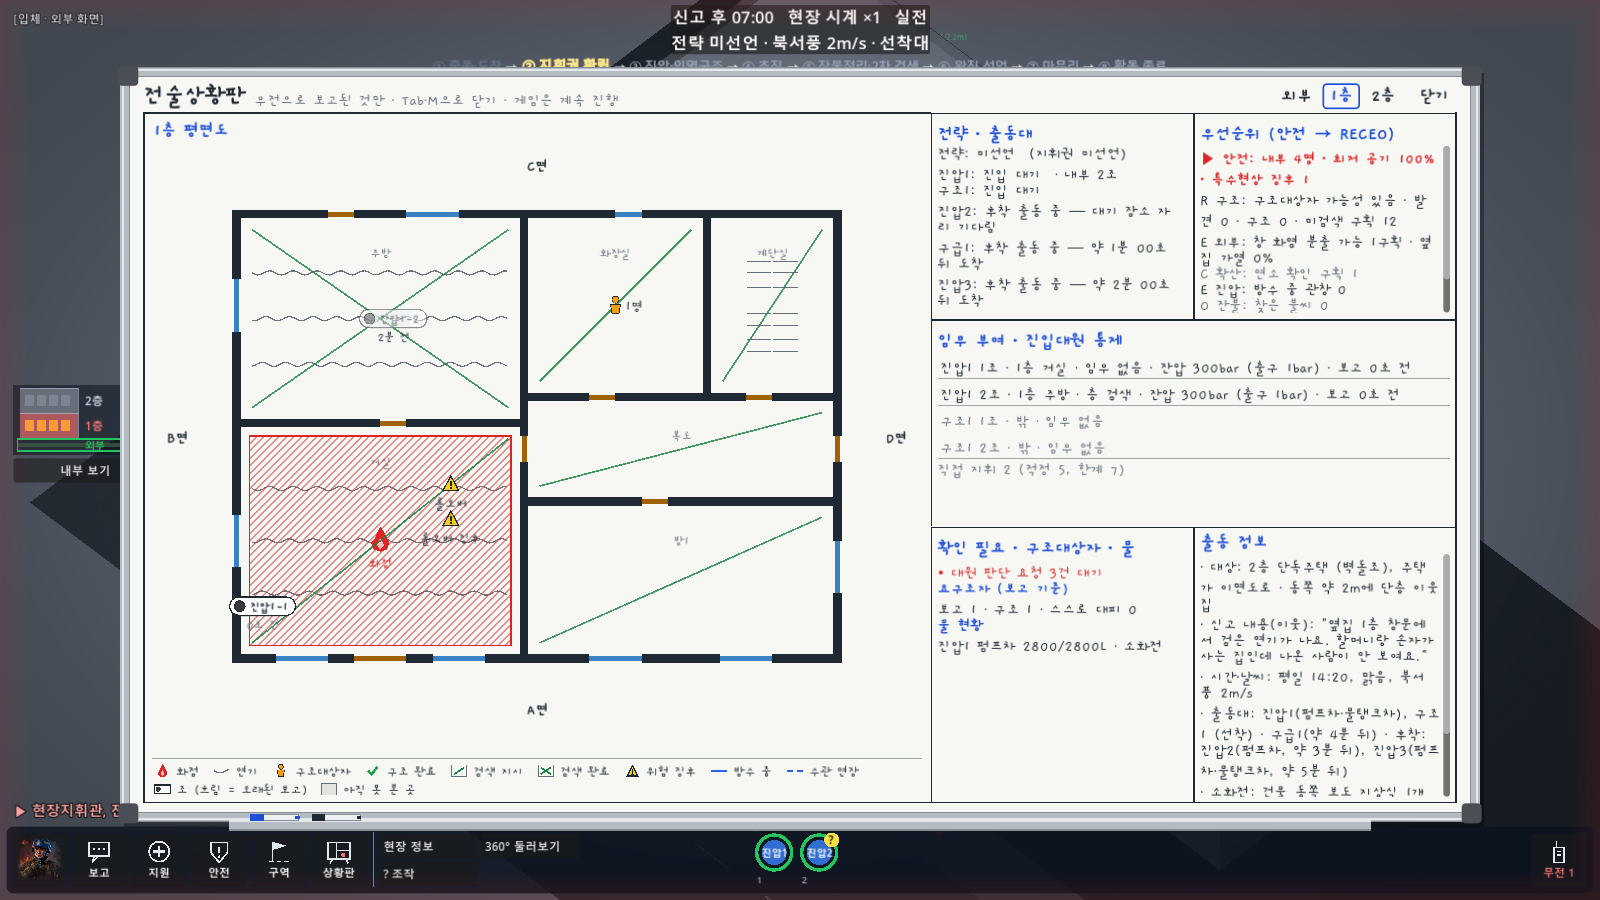
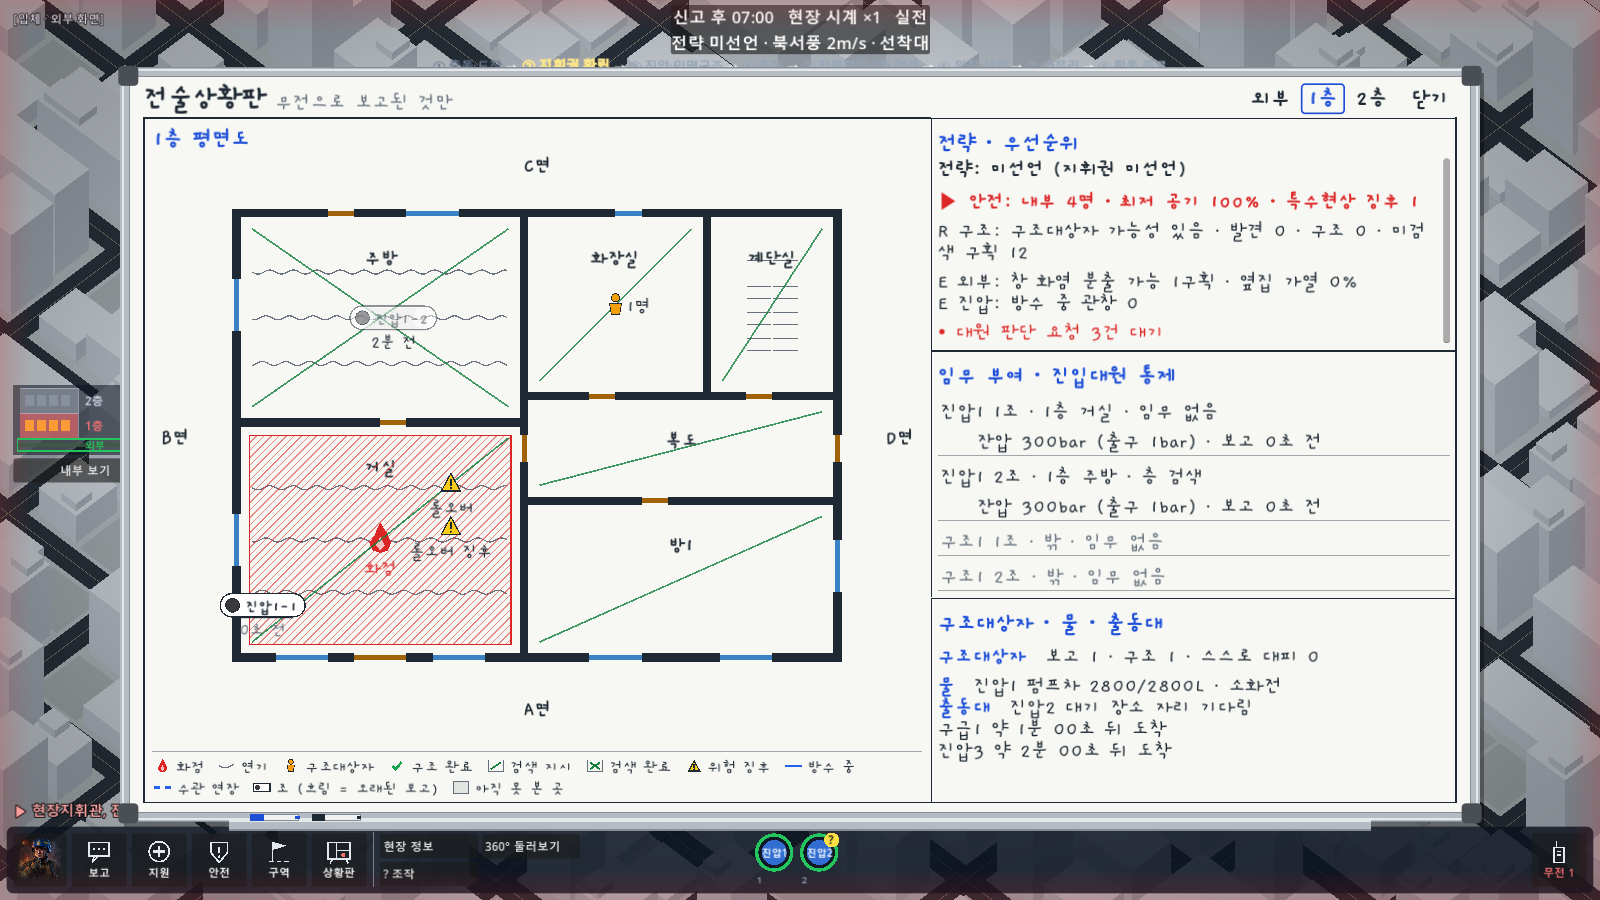
화면: 전술상황판 글자를 키우고 중요한 것만 — 정보 칸 세 줄(전략·우선순위 / 팀 카드 / 구조대상자·물·출동대), 출동 정보는 현장 정보 창으로

diff --git a/docs/decisions.md b/docs/decisions.md
@@ -176,3 +176,4 @@
 | 2026-11-14 | 출동 | 출동 중 장면 (3단계) — 출동 지령 창 하나를 장면 여러 개로 | ① **한 번에 한 장면**: 출동 지령 → 상황실 요청 카드 2장(관계자 조치 요청·예비 소방용수) → 상황실 추가 무전 → 장비 챙기기 → 조마다 도착 후 임무 → 선착 차량 배치. 주택 시나리오는 10개 ② **장비는 장면 안의 체크 목록**(3개까지 고르고 '이대로 챙긴다'), **임무는 조마다 한 장면**(그 조의 조장이 묻는다), **차량 배치는 고르면 그 자리의 장단점이 보이고 확인** ③ **장면은 화면 오른쪽**(먹물 바탕 + 그림 + 둥근 단추, 폭 950), **왼쪽에 출동 준비판**(받은 상황실 무전·신고 후 시각·결정 목록과 고른 것·'현장 도착' 단추) — 가운데의 출동 경로와 현장은 가리지 않는다 ④ 지령 줄은 시간이 아니라 **장면 순서로** 온다(첫 장면 2줄, 나머지는 '추가 무전') — 정보가 결정보다 먼저 ⑤ 그림은 **지휘관 일러스트를 임시로**(data/art.json portraits '출동' — 차량 안 그림을 받으면 경로만 바꾼다), 조별 임무 장면은 그 출동대 종류 그림 ⑥ 카드 보기는 섞어서 보여 준다(같은 시나리오는 늘 같은 순서) ⑦ 숫자키 = 고르기, Enter = 확인 | 사용자 결정(추천 승인: 장비는 체크 목록, 임무는 조마다). 프로스트펑크의 사건 창처럼 한 번에 한 가지. 장비·임무는 셋 중 하나 고르기로 줄이면 무엇을 챙기고 누구에게 시킬지 스스로 생각하는 훈련이 줄어든다. 지령 줄을 시간으로 내보내면 빨리 고르는 사람이 정보 없이 장비를 고르게 된다 |
 | 2026-11-14 | 출동 | 출동 시간과 도착 (기획안 4-4·5-8의 '실제 약 90초'를 대체) | ① 출동 단계 **실제 180초**(신고 후 4분, 약 1.3배 — data/command/phase_params.json dispatch_real_s) ② **훈련**: 차가 현장 앞에 닿아도 결정을 마칠 때까지 기다린다 ③ **실전·악조건**: 180초가 지나면 그대로 도착 — **정하지 않은 것은 준비하지 않은 것**(장비 없음, 임무 없음, 배치는 기본 자리, 카드는 '출동 중 정하지 않음' = 미응답) ④ 결정을 모두 마치면 **'현장 도착(Enter)'** 으로 남은 길을 건너뛴다 — 차가 사라지지 않고 2.5초에 빨리 달려 도착. 결정은 건너뛸 수 없다 ⑤ 차가 현장 앞에 닿으면 누르지 않아도 도착한다 ⑥ 출동 단계 카드 2장은 출동 중에 답하면 **도착한 뒤에 다시 묻지 않고** 그때 답대로 적용·기록한다(CommandOrder dispatch_answers) | 사용자 결정("출동이 너무 빨리 이루어진다"). 장면 8~10개를 읽고 고르려면 90초로는 모자란다. 훈련/실전의 차이는 무전 장면과 같은 원칙(훈련은 기다려 주고 실전은 시간이 멈추지 않는다). 건너뛸 때 차가 사라졌다 다시 나오던 문제도 같이 없앰 |
 | 2026-11-15 | 출동 | 출동 시간 90초로 되돌림 + 마무리 안내 장면 (11-14 '출동 시간과 도착'의 ①·④를 대체) | ① 출동 단계 **실제 90초** (data/command/phase_params.json dispatch_real_s) ② 마지막 결정을 마치면 오른쪽 장면 자리에 **마무리 안내 장면** — "결정을 모두 마쳤습니다 · 현장까지 약 N초" + 단추 **'건너뛰고 현장 도착 (Enter)'** (숫자키 1·Enter·왼쪽 준비판 단추도 같음). 누르면 남은 길을 2.5초에 달려 도착, 그대로 두면 차가 닿을 때 도착 ③ 안내 장면은 결정이 아니다(결정 목록·개수에 넣지 않음). 차가 이미 현장 앞이면(훈련에서 늦게 마침) 안내 없이 바로 도착 ④ 훈련은 기다리고 실전·악조건은 시간이 되면 도착하는 것은 그대로 | 사용자 결정("소방차가 도착할 때까지 계속 쳐다보는 건 지루하고 이상하다"). 180초는 결정을 마친 뒤 남는 시간이 길었고, 건너뛰기 단추가 왼쪽 준비판 맨 아래에 있어 눈에 띄지 않았다. **남는 걱정:** 실전·악조건은 장면 10개를 90초 안에(장면당 8초쯤) 마쳐야 한다 — 못 정한 것은 준비 안 한 것이 된다 |
+| 2026-11-15 | 화면 | 전술상황판: 글자를 키우고 중요한 것만 (11-14 '화이트보드 한 장'의 ③ 정보 다섯 칸을 대체) | ① **글자 크기**(1920×1080 기준): 내용 19 → **26**, 칸 제목 22 → 28, 제목 30 → 36, 도면 기호 글자 16 → 22, 방 이름 15 → 24(**굵은 먹색** — 예전 흐린 회색), 자석 15 → 20, 면 글자 19 → 24, 범례 16 → 20 ② **정보 칸은 세 줄, 칸마다 판 폭을 다 쓴다**: 전략·우선순위 / 임무 부여·진입대원 통제 / 구조대상자·물·출동대 ③ **우선순위는 지금 해당하는 항목만** (가장 급한 것 빨강 ▶) + 확인 필요 3건까지(넘으면 '… N건 더') ④ **팀 카드는 두 줄**: 누가·어디·무엇 / 잔압·보고 (밖에 있는 조는 한 줄) ⑤ 통솔범위는 넘었을 때·실행 대기 명령이 있을 때만 빨갛게 ⑥ 출동대는 아직 투입되지 않은 것만(접근 중·대기1단계·도착 예정) ⑦ **뺀 것**: 출동 지령 원문·둘러보기 현황(→ 아래 바 '현장 정보' 창으로 옮김), 해당 없는 우선순위 줄, 구역 한 줄(외부 도면에 그려짐), 출동대별 진입 상태, 맨 위 안내 글은 '무전으로 보고된 것만'만 ⑧ 수치는 data/ui/board_style.json | 사용자 결정("글자가 너무 작아 시인성이 떨어진다 — 중요한 정보만 표시하고 글자를 키워라"). 무엇이 중요한지는 SOP 106 3.3.1의 상황판 기록 항목(전략·우선순위, 작전도, 동원자원, 임무부여)을 기준으로 추천해 넣음 — 사용자 화면 확인 필요. 손글씨 글꼴(Gaegu)은 같은 크기의 일반 글꼴보다 작게 보여 숫자를 넉넉히 키웠다 |

diff --git a/docs/progress.md b/docs/progress.md
@@ -92,3 +92,4 @@
 | 2026-11-14 | 출동 장면 2단계: 출동 주행 | scripts/ui/city_mass_view.gd(truck_cell·truck_distance·_draw_overlay·_draw_plume·_label, 출동 중에만 다시 그림), scripts/ui/city_plan.gd(site_center, 원경 중심 옮김), scripts/world.gd(원경 카메라 자리, 도착 확대 때 화면 가운데도 이동), data/ui/city.json(overview_offset_cells·station_name·truck_*·plume_*·색), tests/test_city.gd·_shot_dispatch.gd, docs/ref/city_overview_day.png·city_overview_night.png·city_dispatch_start.png·city_dispatch_arrive.png | test_city 7개, 화면 점검 4종(ui_smoke 147항목·ui_split 39·ui_cutaway 44·ui_radio 25) 통과. 전체 테스트는 돌리지 않음. 도시 켬·끔 프레임 시간 차이 없음(UHD 630). 남음: ① 출동 지령 창이 아직 화면 가운데를 가려 달리는 차가 잘 안 보인다(3단계에서 질문 장면으로 바꾸고 화면 오른쪽에) ② '현장 도착'을 90초 전에 누르면 달리던 차가 사라지고 현장 가장자리에서 다시 들어온다(3단계에서 정리) ③ 소방차는 길 가운데로 달린다(차로 구분 없음), 모퉁이에서 방향이 한 번에 바뀐다 ④ 연기 기둥은 화재 크기와 무관하게 같은 크기 ⑤ 소리 없음(음향 작업 때) ⑥ 하차 동작은 4단계. 다음: 3단계 출동 중 질문 장면 |
 | 2026-11-14 | 출동 장면 3단계: 출동 중 장면 (+ 출동 시간 90 → 180초) | scripts/ui/dispatch_ui.gd(새 — 장면 목록·오른쪽 장면·왼쪽 출동 준비판·시간·건너뛰기·result), data/ui/dispatch.json(새 — 순서·크기·글·조별 임무 보기), scripts/ui/command_ui.gd(출동 지령 창·장비 체크·임무 고르기 코드를 걷어내고 DispatchUi로, _arrive가 result를 명령으로), scripts/command/card_system.gd(dispatch_specs·dispatch_answers — 출동 중 답한 카드는 도착 뒤 묻지 않고 적용, 정하지 않으면 unprepared), scripts/command/command_order.gd(dispatch_answers), scripts/evaluation/evaluator.gd·sim_event_log.gd('출동 중 정하지 않음'), scripts/ui/card_ui.gd(pill·draw_ornament를 함께 쓰게), scripts/ui/hud.gd(튜토리얼 안내판 아래로), data/command/phase_params.json(dispatch_real_s 180), data/art.json(portraits '출동'), data/tutorial/basics.json(1단계 글), tests/test_dispatch_scenes.gd(새, 7개)·ui_smoke.gd(출동 13항목)·_shot_dispatch.gd, docs/ref/dispatch_scene_*.png 6장 | test_dispatch_scenes 7개 + 관련 15개 파일(dispatch_prep·cards·cards_r4·city·placement·time_axis·art·tutorial·evaluation·debrief_ext·replay·numbers·realism·highrise·hints), 화면 점검 6종(ui_smoke 156항목·ui_split 39·ui_cutaway 44·ui_command_card 54·ui_radio 25·ui_end_menu 22) 통과. 전체 테스트는 돌리지 않음. 남음: ① 차량 안에서 무전하는 그림은 지휘관 일러스트 임시(사용자가 줄 예정 — data/art.json portraits '출동' 경로만 바꾸면 됨) ② 위 표시줄은 출동 중에도 '신고 후 04:00'(도착 시각)을 보인다 — 준비판의 시각과 다르다 ③ 조별 임무 보기는 출동대 종류와 상관없이 같다(구조대에도 화점진압) ④ ui_radio의 실전 부분은 PC가 바쁠 때 가끔 실패(실제 시간 진행과 수동 진행이 겹쳐 진입 요청이 나오기 전에 불이 꺼짐 — 이번 변경과 무관) ⑤ 소리 없음(나중에 음향 작업 때) ⑥ 4단계(차량 진입을 도시의 차와 이어 보이게, 하차 동작)는 다음 |
 | 2026-11-15 | 출동 시간 180 → 90초 + 마무리 안내 장면('건너뛰고 현장 도착') | data/command/phase_params.json(dispatch_real_s 90), data/ui/dispatch.json(texts done_*), scripts/ui/dispatch_ui.gd(closing_shown·_closing_step·_closing_text, choose·_refresh·_fill), data/tutorial/basics.json(1단계 글), tests/test_dispatch_scenes.gd(test_closing_scene_guides_skip)·ui_smoke.gd(1항목)·_shot_dispatch.gd, docs/ref/dispatch_scene_done.png | 헤드리스 18개(test_dispatch_scenes 8·test_dispatch_prep 4·test_time_axis 3·test_tutorial 3) 통과. 전체 테스트는 돌리지 않음. 남음: ① 실전·악조건에서 장면 10개를 90초에 마치기 빠듯할 수 있다(사용자 확인 필요) ② 위 표시줄의 '신고 후 04:00'은 그대로 |
+| 2026-11-15 | 전술상황판: 글자 키움 + 중요한 것만 (정보 칸 다섯 → 세 줄) | data/ui/board_style.json(글자 크기·info_rows·todo_max·legend_font), scripts/ui/board_style.gd(todo_max·legend_font), scripts/ui/tactical_board.gd(정보 칸 다시 묶음: strategy_text·urgent_lines·receo_bbcode·span_text·status_bbcode·water_lines·arrival_lines — dispatch_text·_dispatch 없앰), scripts/ui/board_map.gd(방 이름 굵은 먹색, 범례 글자 크기 따로), scripts/ui/command_ui.gd(team_compact — 팀 카드 두 줄, dispatch_info_text — 현장 정보 창에 출동 정보), tests/test_board.gd(test_board_big_text_and_important_only)·ui_smoke.gd, docs/ref/board_whiteboard.png·board_whiteboard_out.png | 헤드리스 29개(test_board 10·test_command_board 4·test_hints 4·test_tutorial 3·test_dispatch_scenes 8), 화면 점검 ui_smoke 158항목 통과. 전체 테스트·다른 화면 점검(ui_command_card·ui_radio·ui_split)은 돌리지 않음. 남음: ① 견본 그림은 보고 내용을 손으로 채운 것(실제 한 판 화면 아님) ② 조가 6개 넘게 건물 안에 있으면 팀 카드 칸은 휠로 넘겨야 한다 ③ 15층 아파트처럼 방이 작은 도면에서 커진 방 이름·기호 글자가 겹치는지 화면으로 확인하지 않음 ④ docs/ref/board_whiteboard_unseen.png은 예전 글자 크기 그대로 ⑤ SOP 106 3.3.1의 응급의료계획·통신계획·시간대별 활동 기록 칸은 여전히 없음 |
